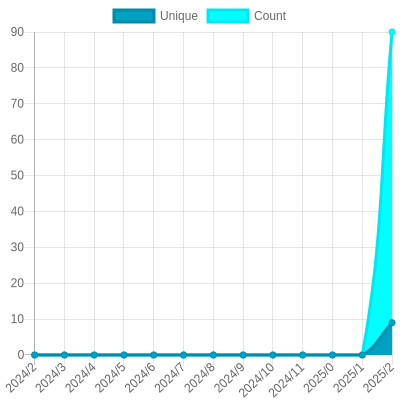
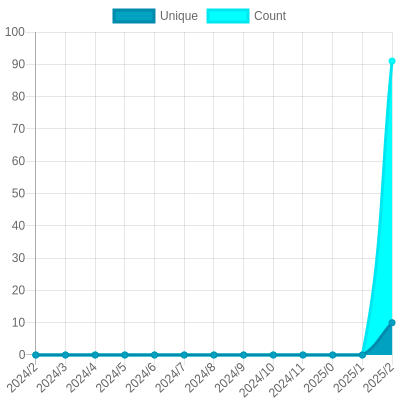
Update views

diff --git a/readme/758588570/year.md b/readme/758588570/year.md
@@ -23,10 +23,10 @@
 			<code>2024/3/1</code>
 		</td>
 		<td>
-			<code>9</code>
+			<code>10</code>
 		</td>
 		<td>
-			<code>90</code>
+			<code>91</code>
 		</td>
 	</tr>
 	<tr>
@@ -164,7 +164,7 @@
 </table>
 
 </details>
-<small><i>Last updated on 2024/3/9 6:23 AM UTC</i></small>
+<small><i>Last updated on 2024/3/9 12:27 PM UTC</i></small>
 
 ## ✂Copy and 📋 Paste
 ### SVG Badge

diff --git a/README.md b/README.md
@@ -101,7 +101,7 @@ The project created and maintained by [gayanvoice](https://github.com/gayanvoice
 	</tr>
 </table>
 
-<small><i>Last updated on 2024/3/9 6:23 AM UTC</i></small>
+<small><i>Last updated on 2024/3/9 12:27 PM UTC</i></small>
 
 ## ✂Copy and 📋 Paste
 ### Total Views Badge

diff --git a/readme/636031273/year.md b/readme/636031273/year.md
@@ -164,7 +164,7 @@
 </table>
 
 </details>
-<small><i>Last updated on 2024/3/9 6:23 AM UTC</i></small>
+<small><i>Last updated on 2024/3/9 12:27 PM UTC</i></small>
 
 ## ✂Copy and 📋 Paste
 ### SVG Badge

diff --git a/readme/722764521/year.md b/readme/722764521/year.md
@@ -164,7 +164,7 @@
 </table>
 
 </details>
-<small><i>Last updated on 2024/3/9 6:23 AM UTC</i></small>
+<small><i>Last updated on 2024/3/9 12:27 PM UTC</i></small>
 
 ## ✂Copy and 📋 Paste
 ### SVG Badge

diff --git a/readme/755430606/year.md b/readme/755430606/year.md
@@ -164,7 +164,7 @@
 </table>
 
 </details>
-<small><i>Last updated on 2024/3/9 6:22 AM UTC</i></small>
+<small><i>Last updated on 2024/3/9 12:27 PM UTC</i></small>
 
 ## ✂Copy and 📋 Paste
 ### SVG Badge

diff --git a/readme/762888706/year.md b/readme/762888706/year.md
@@ -164,7 +164,7 @@
 </table>
 
 </details>
-<small><i>Last updated on 2024/3/9 6:22 AM UTC</i></small>
+<small><i>Last updated on 2024/3/9 12:27 PM UTC</i></small>
 
 ## ✂Copy and 📋 Paste
 ### SVG Badge
